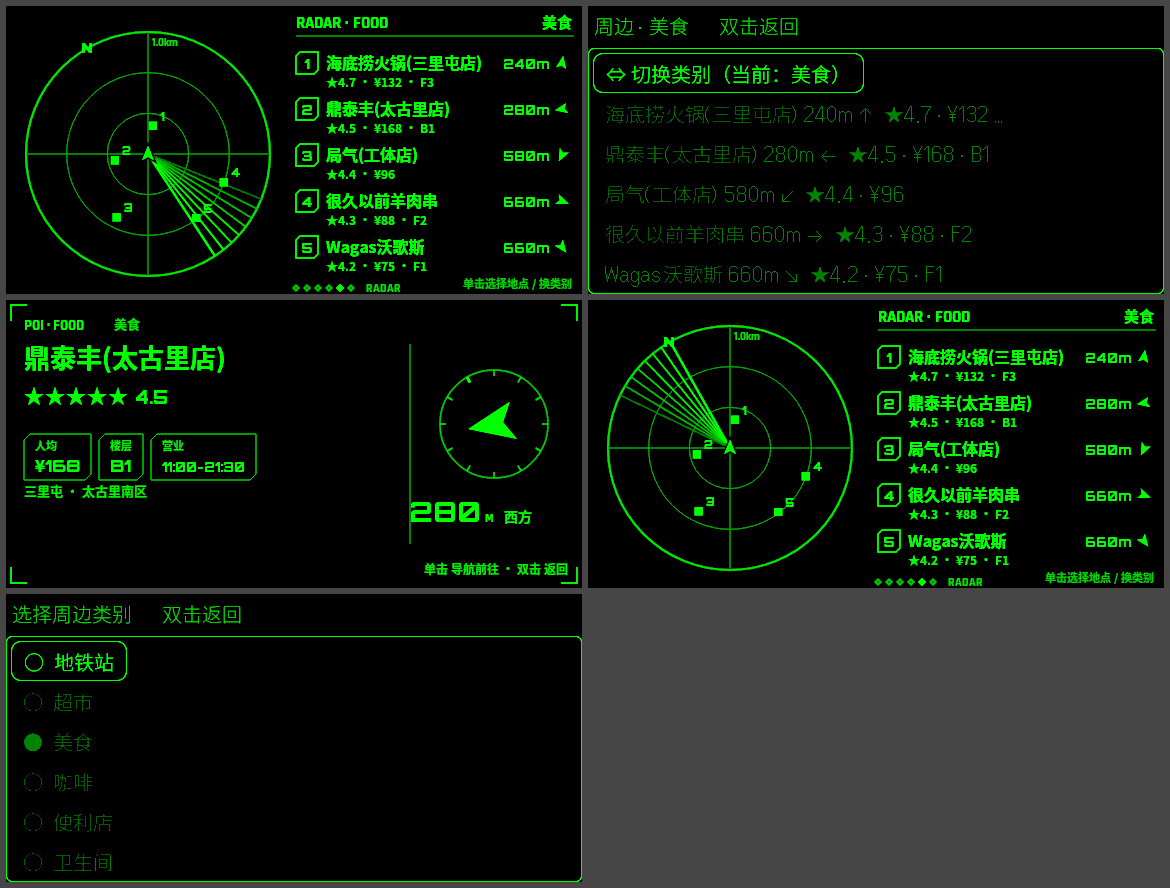
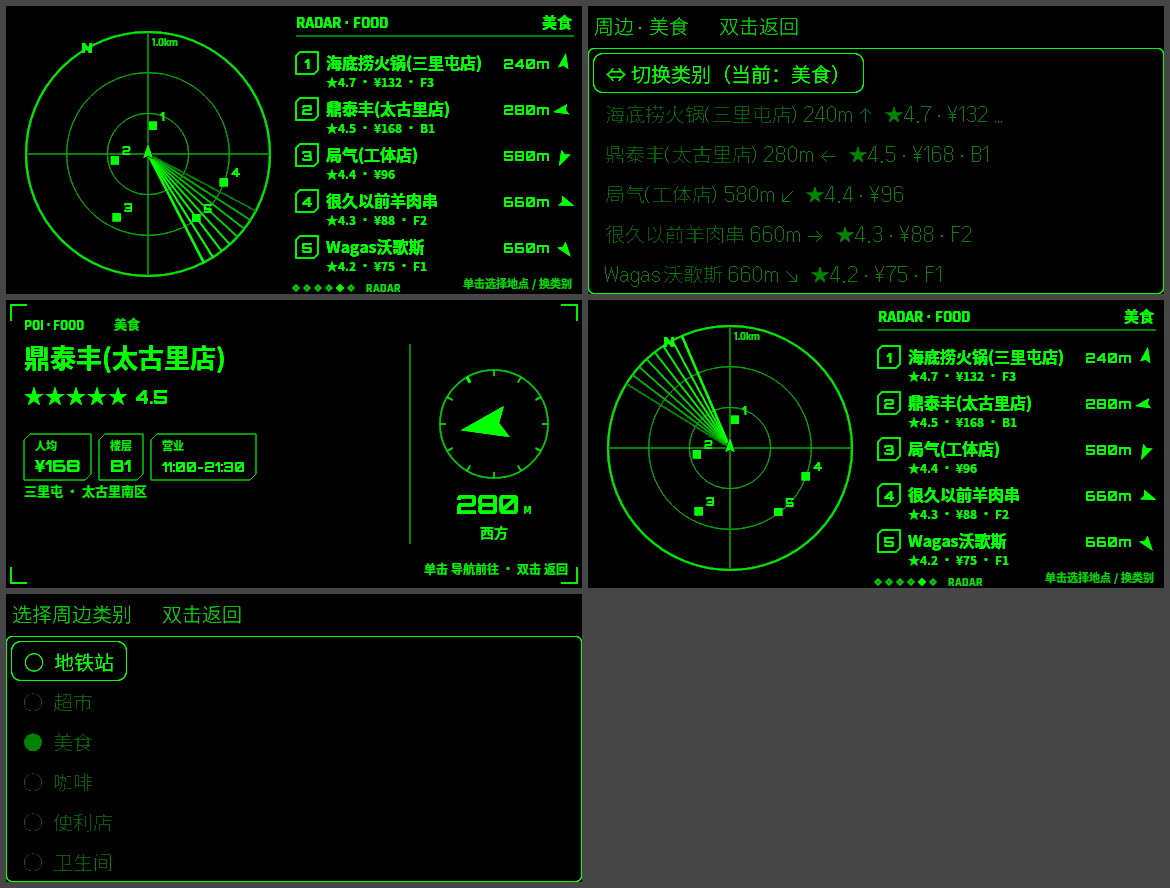
v0.2.1: 修复方向箭头指向错误
箭头形状的两个翼尖比尖端离中心更远，小尺寸下翼尖比尖端更显眼，
看起来指向别的方向；4px 黑色描边还会吃掉小箭头的尖端。

- 重新设计箭头形状：尖端 1.20、翼尖约 0.72，尖端明显更突出
- 列表/详情用无描边的 pointer，地图定位标记的描边按尺寸缩放
- 列表箭头最小 9px
- 新增 npm run check:arrows 渲染回归检查（视觉最远点方向 + 翼尖/尖端比）
- 更新截图

diff --git a/src/hud/views.ts b/src/hud/views.ts
@@ -5,7 +5,7 @@ import { bearing, compass8, haversine, LocalProjector, angleDiff, normDeg, type 
 import { MANEUVER_LABEL, MODE_LABEL, type Route } from '../nav/route'
 import { SCREEN_H, SCREEN_W } from '../glasses/display'
 import {
-  battery, brackets, chamferRect, chevron, clear, diamond, ellipsize, font, hatch, L, line, maneuverIcon,
+  battery, brackets, chamferRect, chevron, clear, pointer, diamond, ellipsize, font, hatch, L, line, maneuverIcon,
   measure, numUnit, reticle, segBar, signal, text, type Ctx,
 } from './gfx'
 import { fmtClock, fmtDist, fmtDistStr, fmtDuration, fmtElapsed, fmtSpeed, kmh } from './format'
@@ -607,7 +607,7 @@ function drawRadar(ctx: Ctx, m: HudModel): void {
     text(ctx, p.name, 320, y + 23, { font: font.cjk(16, 700), level: 15, maxWidth: 170 })
     if (me) {
       const b = angleDiff(heading, bearing(me, p.location))
-      chevron(ctx, 556, y + 17, 7, b, 12)
+      pointer(ctx, 558, y + 18, 9, b, 13)
     }
     text(ctx, fmtDistStr(d), 544, y + 23, { font: font.num(13), level: 12, align: 'right' })
     const meta = poiMeta(p)
@@ -672,7 +672,7 @@ function drawCruise(ctx: Ctx, m: HudModel): void {
   const start = m.trip.start
   if (m.fix && start && haversine(m.fix.p, start) > 30) {
     const b = angleDiff(heading, bearing(m.fix.p, start))
-    chevron(ctx, 34, 258, 10, b, 13)
+    pointer(ctx, 34, 259, 10, b, 13)
     text(ctx, `起点 ${fmtDistStr(haversine(m.fix.p, start))}`, 54, 264, { font: font.cjk(15), level: 12 })
   }
   text(ctx, '单击后长按：菜单  ·  手机端选择目的地', 562, 264, { font: font.cjk(12), level: 6, align: 'right' })
@@ -794,7 +794,7 @@ function drawGo(ctx: Ctx, m: HudModel): void {
       const d = haversine(me, q.place.location)
       const b = angleDiff(heading, bearing(me, q.place.location))
       text(ctx, fmtDistStr(d), 520, y + 28, { font: font.num(15), level: 13, align: 'right' })
-      chevron(ctx, 548, y + 22, 8, b, 13)
+      pointer(ctx, 550, y + 23, 9, b, 14)
     }
     if (i < items.length - 1) line(ctx, 66, y + 44, 566, y + 44, 3)
   })
@@ -860,7 +860,7 @@ function drawPoiDetail(ctx: Ctx, m: HudModel): void {
       const r = ((a - heading) * Math.PI) / 180
       line(ctx, cxr + Math.sin(r) * 48, cyr - Math.cos(r) * 48, cxr + Math.sin(r) * 54, cyr - Math.cos(r) * 54, a === 0 ? 15 : 7, a === 0 ? 2.5 : 1.5)
     }
-    chevron(ctx, cxr, cyr, 26, b)
+    pointer(ctx, cxr, cyr, 28, b)
     const dd = fmtDist(d)
     const dir = `${compass8(bearing(me, p.entrance ?? p.location), true)}方`
     const w = measure(ctx, dd.v, font.num(26)) + measure(ctx, dd.u, font.label(11, 700)) + 4

diff --git a/src/hud/gfx.ts b/src/hud/gfx.ts
@@ -271,20 +271,49 @@ export function maneuverIcon(ctx: Ctx, kind: Maneuver, cx: number, cy: number, s
   ctx.restore()
 }
 
-/** 用户位置箭头（V 形 chevron） */
+/**
+ * 箭头形状（局部坐标，尖端朝上，尺寸归一化为 1）。
+ * 关键约束：尖端到旋转中心的距离必须明显大于两个翼尖，否则小尺寸下翼尖
+ * 会比尖端更显眼，看起来像指向别的方向。这里尖端 1.20、翼尖约 0.72。
+ * 旋转中心取在图形质心附近（原点），朝不同方向时位置基本不漂移。
+ */
+const ARROW_SHAPE: [number, number][] = [
+  [0, -1.2],
+  [0.56, 0.46],
+  [0, 0.18],
+  [-0.56, 0.46],
+]
+
+function arrowPath(ctx: Ctx, size: number): void {
+  ctx.beginPath()
+  ARROW_SHAPE.forEach(([x, y], i) => (i ? ctx.lineTo(x * size, y * size) : ctx.moveTo(x * size, y * size)))
+  ctx.closePath()
+}
+
+/** 地图上的用户位置标记：带黑色外描边，便于压在路线上时分辨（描边在填充之下，不侵蚀形状） */
 export function chevron(ctx: Ctx, x: number, y: number, size: number, rotDeg: number, level = 15): void {
   ctx.save()
   ctx.translate(x, y)
   ctx.rotate((rotDeg * Math.PI) / 180)
-  ctx.beginPath()
-  ctx.moveTo(0, -size)
-  ctx.lineTo(size * 0.72, size * 0.75)
-  ctx.lineTo(0, size * 0.35)
-  ctx.lineTo(-size * 0.72, size * 0.75)
-  ctx.closePath()
-  ctx.lineWidth = 4
+  arrowPath(ctx, size)
+  ctx.lineJoin = 'round'
+  ctx.lineWidth = Math.max(2, size * 0.3)
   ctx.strokeStyle = '#000'
   ctx.stroke()
+  ctx.fillStyle = L(level)
+  ctx.fill()
+  ctx.restore()
+}
+
+/**
+ * 方向指示箭头（列表、详情卡里用）：实心、无描边。
+ * rotDeg 为相对当前朝向的角度，0 = 正前方（向上），顺时针为正。
+ */
+export function pointer(ctx: Ctx, x: number, y: number, size: number, rotDeg: number, level = 15): void {
+  ctx.save()
+  ctx.translate(x, y)
+  ctx.rotate((rotDeg * Math.PI) / 180)
+  arrowPath(ctx, size)
   ctx.fillStyle = L(level)
   ctx.fill()
   ctx.restore()

diff --git a/README.md b/README.md
@@ -112,6 +112,7 @@ npm install
 npm run dev            # http://<局域网IP>:5173（手机扫码时加 HMR_HOST=<IP>）
 npm run qr             # 生成二维码，用 Even App 扫码在眼镜上加载
 npm test               # 单元测试：坐标转换、路线解析、路线跟踪、偏航、到达、POI 字段
+npm run check:arrows   # 渲染回归：方向箭头在各尺寸/角度下视觉指向正确（需先 npm run dev）
 npm run pack           # 构建并打包 amaphud.ehpk
 ```
 
